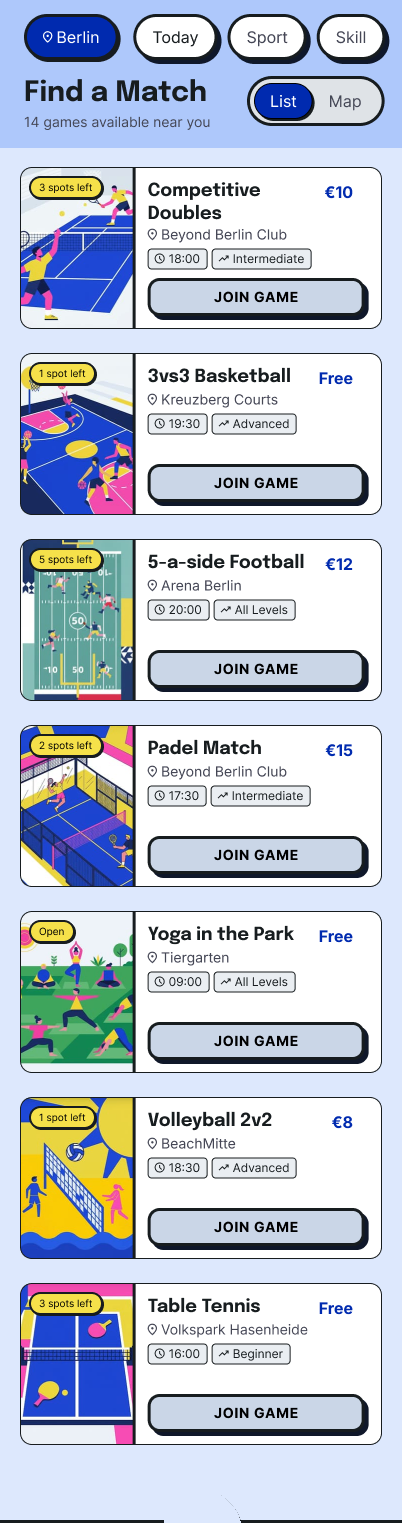
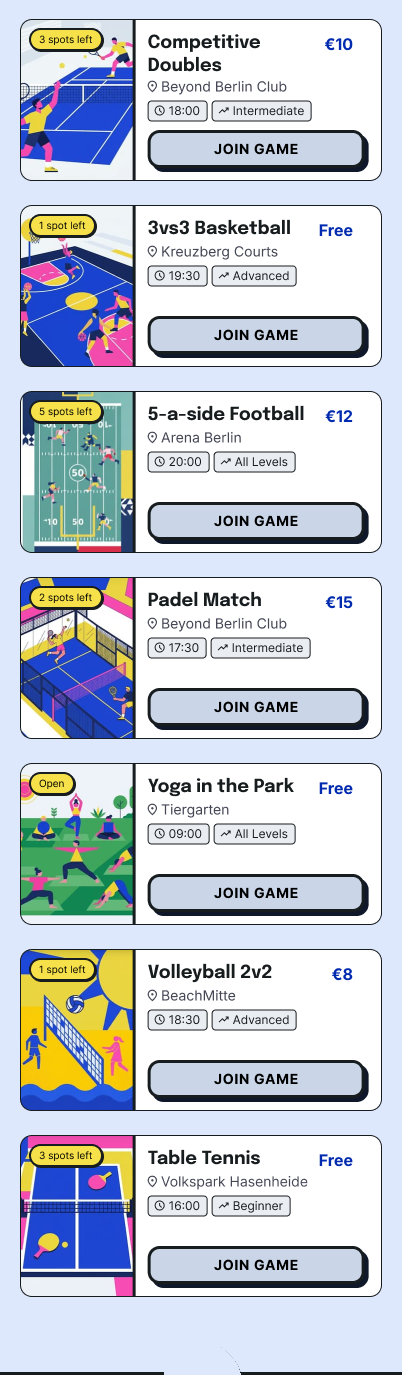
PlayMate: keep the Find a Match filter band fixed while the list scrolls

diff --git a/src/content/projects/playmate.md b/src/content/projects/playmate.md
@@ -39,7 +39,7 @@ gallery:
     scroll: true
     items:
       - { src: /images/playmate-app-home-1.webp, alt: 'PlayMate home dashboard', width: 402, height: 1285, head: { src: /images/playmate-app-home-1-head.webp, alt: '', width: 402, height: 101 }, foot: { src: /images/playmate-app-home-1-foot.webp, alt: '', width: 402, height: 116, nav: 80 } }
-      - { src: /images/playmate-app-home-2.webp, alt: 'PlayMate Find a Match, list view', width: 402, height: 1523, head: { src: /images/playmate-app-home-2-head.webp, alt: '', width: 402, height: 101 }, foot: { src: /images/playmate-app-home-2-foot.webp, alt: '', width: 402, height: 116, nav: 80 } }
+      - { src: /images/playmate-app-home-2.webp, alt: 'PlayMate Find a Match, list view', width: 402, height: 1375, head: { src: /images/playmate-app-home-2-head.webp, alt: '', width: 402, height: 249 }, foot: { src: /images/playmate-app-home-2-foot.webp, alt: '', width: 402, height: 116, nav: 80 } }
       - { src: /images/playmate-app-home-3.webp, alt: 'PlayMate Find a Match, map view', width: 402, height: 874 }
       - { src: /images/playmate-app-home-4.webp, alt: 'PlayMate game details', width: 402, height: 1658, head: { src: /images/playmate-app-home-4-head.webp, alt: '', width: 402, height: 101 }, foot: { src: /images/playmate-app-home-4-foot.webp, alt: '', width: 402, height: 116, nav: 80 } }
       - { src: /images/playmate-app-home-5.webp, alt: 'PlayMate create a game', width: 402, height: 1742 }
